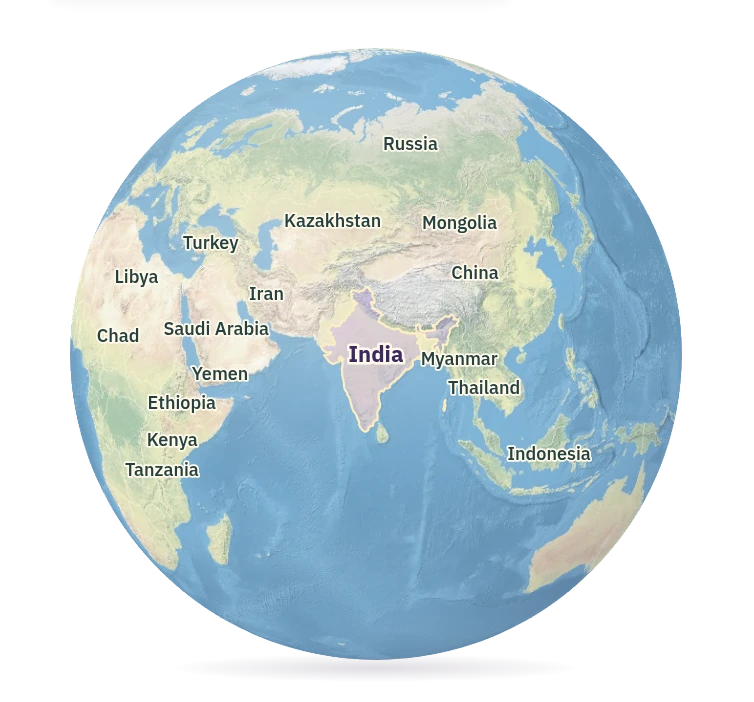
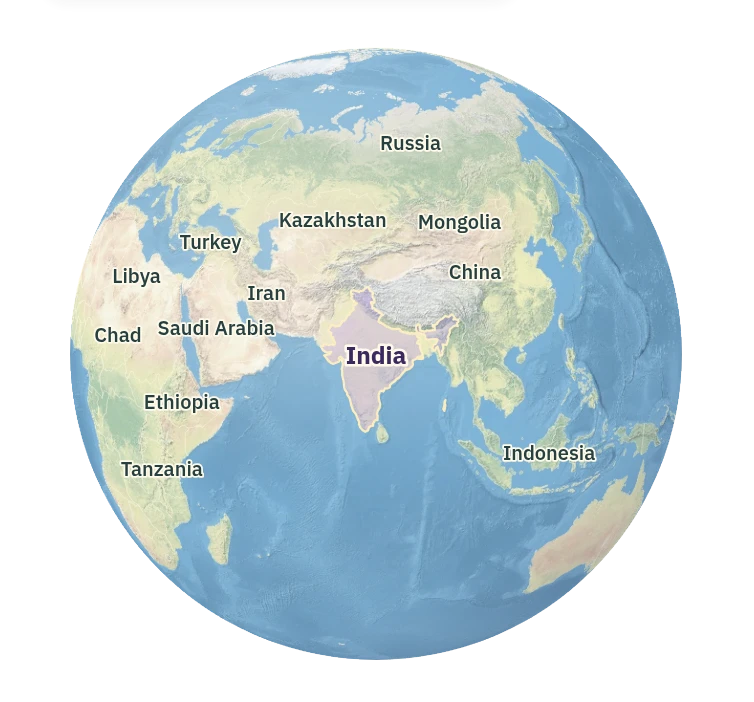
Capture globe zoom gestures and publish the static site to GitHub Pages

diff --git a/lib/pages/home.dart b/lib/pages/home.dart
@@ -96,7 +96,7 @@ class Programme extends StatelessComponent {
             attributes: {'aria-live': 'polite'},
             [.text('${initial.length} ${initial.length == 1 ? 'event' : 'events'}')],
           ),
-          a(classes: 'archive-link', href: past ? '/' : '/past', [
+          a(classes: 'archive-link', href: past ? './' : 'past/', [
             .text(past ? 'See upcoming events' : 'See past events'),
           ]),
         ]),
@@ -117,7 +117,7 @@ class Programme extends StatelessComponent {
             h3([.text('No events to show')]),
             p([.text('Try another city or topic, or add a gathering from your community.')]),
             if (!world) button(id: 'reset', attributes: {'hidden': ''}, [.text('Clear filters')]),
-            a(href: '/submit', [.text('List an event')]),
+            a(href: 'submit', [.text('List an event')]),
           ],
         ),
       ],
@@ -156,14 +156,14 @@ class Programme extends StatelessComponent {
                 classes: 'empty-art',
                 attributes: {'data-motion': 'invitation', 'aria-hidden': 'true'},
                 [
-                  img(src: '/art/invitation.webp', alt: ''),
+                  img(src: 'art/invitation.webp', alt: ''),
                 ],
               ),
               div(classes: 'empty-copy', [
                 h3([.text('No upcoming events here')]),
                 p([.text('Know a gathering here? Share it with the community.')]),
                 button(id: 'reset', attributes: {'hidden': ''}, [.text('Clear filters')]),
-                a(classes: 'list-event', href: '/submit', [.text('List an event')]),
+                a(classes: 'list-event', href: 'submit', [.text('List an event')]),
               ]),
             ],
           ),
@@ -204,7 +204,7 @@ class Programme extends StatelessComponent {
           filters,
           if (!world && !past && visible.isNotEmpty)
             a(
-              href: '/events/${visible.first.slug}',
+              href: 'events/${visible.first.slug}',
               classes: 'mobile-feature',
               attributes: {'data-feature': visible.first.slug, 'aria-label': 'View ${visible.first.title}'},
               [
@@ -224,7 +224,7 @@ class Programme extends StatelessComponent {
                 'aria-pressed': 'false',
               },
               [
-                img(src: '/art/ticket-moths.webp', alt: 'Three moths with ticket-stub wings circling a violet moon.'),
+                img(src: 'art/ticket-moths.webp', alt: 'Three moths with ticket-stub wings circling a violet moon.'),
               ],
             ),
           ]),
@@ -251,7 +251,7 @@ Component facet(String id, String all, String symbol, List<String> values) => la
 Component eventRow(Event e, bool first, {bool hidden = false}) {
   final day = _hostDate(e);
   return a(
-    href: '/events/${e.slug}',
+    href: 'events/${e.slug}',
     classes: 'event-row',
     attributes: {
       if (hidden) 'hidden': '',
@@ -325,7 +325,7 @@ class EventTicket extends StatelessComponent {
             h1([.text(e.title)])
           else
             h3([
-              a(href: '/events/${e.slug}', [.text(e.title)]),
+              a(href: 'events/${e.slug}', [.text(e.title)]),
             ]),
           div(classes: 'ticket-actions', [
             a(
@@ -374,7 +374,7 @@ class EventTicket extends StatelessComponent {
               ]),
           ]),
           if (!standalone)
-            a(classes: 'permalink', href: '/events/${e.slug}', [.text('Full event details'), icon('chevron-right')])
+            a(classes: 'permalink', href: 'events/${e.slug}', [.text('Full event details'), icon('chevron-right')])
           else if (e.registrationUrl != null && e.registrationUrl != e.url)
             a(classes: 'permalink', href: e.url, [.text('Organizer’s event page'), icon('arrow-up-right')]),
         ]),
@@ -389,7 +389,7 @@ class EventPage extends StatelessComponent {
   @override
   Component build(BuildContext context) => div(classes: 'wrap detail', [
     Document.head(meta: {'description': event.description}),
-    a(href: '/', classes: 'back', [.text('←  The programme')]),
+    a(href: './', classes: 'back', [.text('←  The programme')]),
     EventTicket(event, standalone: true),
   ]);
 }

diff --git a/web/country-globe.js b/web/country-globe.js
@@ -7,7 +7,7 @@ async function mountGlobe() {
   if (!svg) return;
   const atlas = svg.closest(".country-atlas");
   const select = document.getElementById("country");
-  const response = await fetch("/art/countries.json");
+  const response = await fetch("art/countries.json");
   if (!response.ok) return;
   const topology = await response.json();
   const countries = feature(topology, topology.objects.countries).features;
@@ -33,10 +33,6 @@ async function mountGlobe() {
   ]) {
     element("stop", { offset, "stop-color": color, "stop-opacity": opacity }, light);
   }
-  const shadow = element("radialGradient", { id: "globe-shadow" }, defs);
-  element("stop", { offset: 0, "stop-color": "#61556e", "stop-opacity": 0.2 }, shadow);
-  element("stop", { offset: 1, "stop-color": "#61556e", "stop-opacity": 0 }, shadow);
-  element("ellipse", { cx: 260, cy: 334, rx: 104, ry: 7, fill: "url(#globe-shadow)" }, svg);
   const ocean = element("circle", { cx: 260, cy: 177, fill: "var(--sea)" }, svg);
   const lands = element("g", {}, svg);
   const shapes = countries.map((country) => {
@@ -158,7 +154,7 @@ async function mountGlobe() {
     status.hidden = true;
     if (mode === "satellite" && !paintSatellite) {
       try {
-        satelliteLoad ??= paintEarth(satellite, "/art/earth-satellite.webp");
+        satelliteLoad ??= paintEarth(satellite, "art/earth-satellite.webp");
         paintSatellite = await satelliteLoad;
       } catch {
         satelliteLoad = null;
@@ -295,13 +291,13 @@ async function mountGlobe() {
   svg.addEventListener(
     "wheel",
     (e) => {
-      const p = new DOMPoint(e.clientX, e.clientY).matrixTransform(svg.getScreenCTM().inverse());
-      if (Math.hypot(p.x - 260, p.y - 177) > 153 * zoom || !e.deltaY) return;
+      // Keep trackpad scroll and pinch inside the whole map stage, even at a zoom limit.
+      e.preventDefault();
+      if (!e.deltaY) return;
       const units = e.deltaMode === 1 ? 16 : e.deltaMode === 2 ? svg.clientHeight : 1;
       const factor = Math.exp(-clamp(e.deltaY * units, -240, 240) * (e.ctrlKey ? 0.012 : 0.0025));
       const next = clamp(targetZoom * factor, minZoom, maxZoom);
-      if (next === targetZoom && next === zoom && !e.ctrlKey) return;
-      e.preventDefault();
+      if (next === targetZoom) return;
       updateZoom(next);
     },
     { passive: false },
@@ -323,7 +319,8 @@ async function mountGlobe() {
     pointers.set(e.pointerId, pos);
     svg.setPointerCapture(e.pointerId);
     if (pointers.size === 2) {
-      pinch = { distance: Math.max(1, distance()), zoom };
+      const [a, b] = pointers.values();
+      pinch = { distance: Math.max(1, distance()), midpointY: (a.y + b.y) / 2, zoom };
       drag = null;
     } else startDrag(e.pointerId, pos, e.target.closest("[data-country]")?.dataset.country);
   });
@@ -331,7 +328,12 @@ async function mountGlobe() {
     if (!pointers.has(e.pointerId)) return;
     pointers.set(e.pointerId, { x: e.clientX, y: e.clientY });
     if (pinch) {
-      updateZoom((pinch.zoom * distance()) / pinch.distance, true);
+      const [a, b] = pointers.values();
+      const spread = Math.log(Math.max(1, distance()) / pinch.distance);
+      const slide = (pinch.midpointY - (a.y + b.y) / 2) / 200;
+      // Pointer positions arrive separately. Re-evaluate their combined motion before each paint.
+      const change = Math.abs(spread) > Math.abs(slide) ? spread : slide;
+      updateZoom(pinch.zoom * Math.exp(change), true);
       return;
     }
     const dx = e.clientX - drag.x,
@@ -386,7 +388,7 @@ async function mountGlobe() {
   updateZoom(1);
   selectCountry(false);
   try {
-    paint = await paintEarth(canvas, "/art/earth-relief.webp");
+    paint = await paintEarth(canvas, "art/earth-relief.webp");
     switcher.hidden = false;
     atlas.classList.add("has-relief");
     ocean.setAttribute("fill", "transparent");

diff --git a/lib/pages/submit.dart b/lib/pages/submit.dart
@@ -41,7 +41,7 @@ class SubmitPage extends StatelessComponent {
   @override
   Component build(BuildContext context) {
     return Component.fragment([
-      const link(href: '/submit.css', rel: 'stylesheet'),
+      const link(href: 'submit.css', rel: 'stylesheet'),
       section(
         id: 'entry-studio',
         attributes: {'data-repository': repository},
@@ -52,7 +52,7 @@ class SubmitPage extends StatelessComponent {
           ]),
           aside(classes: 'entry-review', attributes: {'aria-label': 'How listings are published'}, [
             svg(classes: 'icon', viewBox: '0 0 24 24', attributes: {'aria-hidden': 'true'}, [
-              Component.element(tag: 'use', attributes: {'href': '/art/icons.svg#pull-request'}),
+              Component.element(tag: 'use', attributes: {'href': 'art/icons.svg#pull-request'}),
             ]),
             div([
               strong([.text('Listings go through GitHub review')]),
@@ -65,7 +65,7 @@ class SubmitPage extends StatelessComponent {
               ]),
             ]),
           ]),
-          a(classes: 'entry-jump', href: '/submit/#entry-preview', [.text('See your listing preview')]),
+          a(classes: 'entry-jump', href: 'submit/#entry-preview', [.text('See your listing preview')]),
           div(classes: 'entry-layout', [
             form(id: 'entry-form', [
               _group('The gathering', [
@@ -179,13 +179,13 @@ class SubmitPage extends StatelessComponent {
                 ]),
                 p(id: 'entry-preview-host', [.text('Your community')]),
                 p(id: 'entry-preview-description', [.text('Your description will appear here.')]),
-                a(classes: 'entry-jump', href: '/submit/#entry-form', [.text('Back to event details')]),
+                a(classes: 'entry-jump', href: 'submit/#entry-form', [.text('Back to event details')]),
               ],
             ),
           ]),
         ],
       ),
-      const script(src: '/submit.js', defer: true),
+      const script(src: 'submit.js', defer: true),
     ]);
   }
 }

diff --git a/lib/app.dart b/lib/app.dart
@@ -15,10 +15,10 @@ class App extends StatelessComponent {
   Component build(BuildContext context) {
     final path = Uri.parse(context.url).path;
     return div([
-      a(href: '$path#content', classes: 'skip', [.text('Skip to content')]),
+      a(href: '.$path#content', classes: 'skip', [.text('Skip to content')]),
       header(classes: 'masthead', [
         div(classes: 'wrap mast-inner', [
-          a(href: '/', classes: 'brand', [
+          a(href: './', classes: 'brand', [
             .text('happening'),
             span([.text('.tech')]),
           ]),
@@ -29,7 +29,7 @@ class App extends StatelessComponent {
               attributes: {'type': 'button', 'aria-label': 'Switch theme'},
               [icon('moon'), icon('sun')],
             ),
-            a(href: '/submit', classes: 'list-event', [.text('List an event')]),
+            a(href: 'submit', classes: 'list-event', [.text('List an event')]),
           ]),
         ]),
       ]),
@@ -58,8 +58,8 @@ class App extends StatelessComponent {
         ),
       ]),
       footer(classes: 'site-foot wrap', [
-        a(href: '/', classes: 'footer-brand', [.text('happening.tech')]),
-        a(href: '/submit', [.text('Contribute an event')]),
+        a(href: './', classes: 'footer-brand', [.text('happening.tech')]),
+        a(href: 'submit', [.text('Contribute an event')]),
       ]),
     ]);
   }

diff --git a/lib/main.server.dart b/lib/main.server.dart
@@ -10,17 +10,18 @@ void main() {
   runApp(
     Document(
       lang: 'en',
+      base: const String.fromEnvironment('SITE_BASE_PATH', defaultValue: '/'),
       title: 'The programme · happening.tech',
       meta: const {
         'description': 'An independent guide to developer meetups, workshops and conferences around the world.',
       },
       head: [
-        script(src: '/theme.js'),
-        link(href: '/programme.css', rel: 'stylesheet'),
-        link(href: '/favicon.ico?v=globe', rel: 'icon', type: 'image/x-icon'),
-        script(src: '/motion.js', attributes: {'type': 'module'}),
-        script(src: '/nav-playground.js', attributes: {'type': 'module'}),
-        script(src: '/programme.js', defer: true),
+        script(src: 'theme.js'),
+        link(href: 'programme.css', rel: 'stylesheet'),
+        link(href: 'favicon.ico?v=globe', rel: 'icon', type: 'image/x-icon'),
+        script(src: 'motion.js', attributes: {'type': 'module'}),
+        script(src: 'nav-playground.js', attributes: {'type': 'module'}),
+        script(src: 'programme.js', defer: true),
       ],
       body: App(loadEvents()),
     ),

diff --git a/lib/components/country_globe.dart b/lib/components/country_globe.dart
@@ -69,7 +69,7 @@ class CountryGlobe extends StatelessComponent {
             classes: 'earth-surface satellite-surface',
             attributes: {'aria-hidden': 'true', 'hidden': ''},
           ),
-          img(classes: 'globe-fallback', src: '/art/globe-india.webp', alt: 'Globe centred on India'),
+          img(classes: 'globe-fallback', src: 'art/globe-india.webp', alt: 'Globe centred on India'),
           svg(
             id: 'country-globe',
             viewBox: '72 0 376 350',
@@ -97,7 +97,7 @@ class CountryGlobe extends StatelessComponent {
           ],
         ),
         p(classes: 'map-status', attributes: {'role': 'status', 'hidden': ''}, []),
-        const script(src: '/country-globe.js', attributes: {'type': 'module'}),
+        const script(src: 'country-globe.js', attributes: {'type': 'module'}),
       ],
     );
   }

diff --git a/lib/components/activity.dart b/lib/components/activity.dart
@@ -45,7 +45,7 @@ class EventActivity extends StatelessComponent {
         [
           for (final event in events)
             a(
-              href: '/events/${event.slug}',
+              href: 'events/${event.slug}',
               attributes: {
                 'data-first-day': _day(event.startsAt, event.timezone),
                 'data-last-day': _day(event.endsAtExclusive.subtract(const Duration(microseconds: 1)), event.timezone),
@@ -57,7 +57,7 @@ class EventActivity extends StatelessComponent {
             ),
         ],
       ),
-      script(src: '/activity.js', defer: true),
+      script(src: 'activity.js', defer: true),
     ],
   );
 }

diff --git a/web/lottie-player.js b/web/lottie-player.js
@@ -1,8 +1,8 @@
 // Both the component and its matching WASM renderer are served by Jaspr.
 let ready;
 export function loadComponent() {
-  ready ??= import("/vendor/dotlottie-wc-0.12.2/dotlottie-wc.js")
-    .then((module) => module.setWasmUrl("/vendor/dotlottie-wc-0.12.2/dotlottie-player.wasm"))
+  ready ??= import("./vendor/dotlottie-wc-0.12.2/dotlottie-wc.js")
+    .then((module) => module.setWasmUrl(new URL("./vendor/dotlottie-wc-0.12.2/dotlottie-player.wasm", import.meta.url).href))
     .catch((error) => {
       ready = undefined;
       throw error;

diff --git a/web/submit.js b/web/submit.js
@@ -50,7 +50,7 @@
       tones[sum % 3];
     node("poster").className = "poster " + tone;
     const place = online ? "online" : value("city").toLowerCase().replaceAll(" ", "-");
-    art.src = "/art/posters/" + (illustratedPlaces.has(place) ? place : "gathering") + ".webp";
+    art.src = "art/posters/" + (illustratedPlaces.has(place) ? place : "gathering") + ".webp";
     node("format").textContent = value("format");
     node("year").textContent = value("start_date").slice(0, 4);
     node("preview-place").textContent = online

diff --git a/web/nav-playground.js b/web/nav-playground.js
@@ -96,8 +96,8 @@ class NavPerformance extends HTMLElement {
       run = session;
       try {
         const [data, paths] = await Promise.all([
-          asset("/motion/animals/" + animal + ".lottie"),
-          asset("/motion/animals/paths.json", true),
+          asset("motion/animals/" + animal + ".lottie"),
+          asset("motion/animals/paths.json", true),
           loadComponent(),
         ]);
         if (signal.aborted) return;

diff --git a/web/motion.js b/web/motion.js
@@ -23,7 +23,7 @@ import { loadComponent } from "./lottie-player.js";
         finish();
         return;
       }
-      player.setAttribute("src", "/motion/" + slot.dataset.motion + ".json");
+      player.setAttribute("src", "motion/" + slot.dataset.motion + ".json");
       player.setAttribute("autoplay", "");
       if (loop) player.setAttribute("loop", "");
       slot.append(player);

diff --git a/lib/components/poster_art.dart b/lib/components/poster_art.dart
@@ -7,7 +7,7 @@ Component posterArt({String city = '', bool preview = false}) {
   final place = city.trim().toLowerCase().replaceAll(' ', '-');
   final design = _places.contains(place) ? place : 'gathering';
   return img(
-    src: '/art/posters/$design.webp',
+    src: 'art/posters/$design.webp',
     alt: '',
     classes: 'poster-art',
     id: preview ? 'entry-art' : null,
